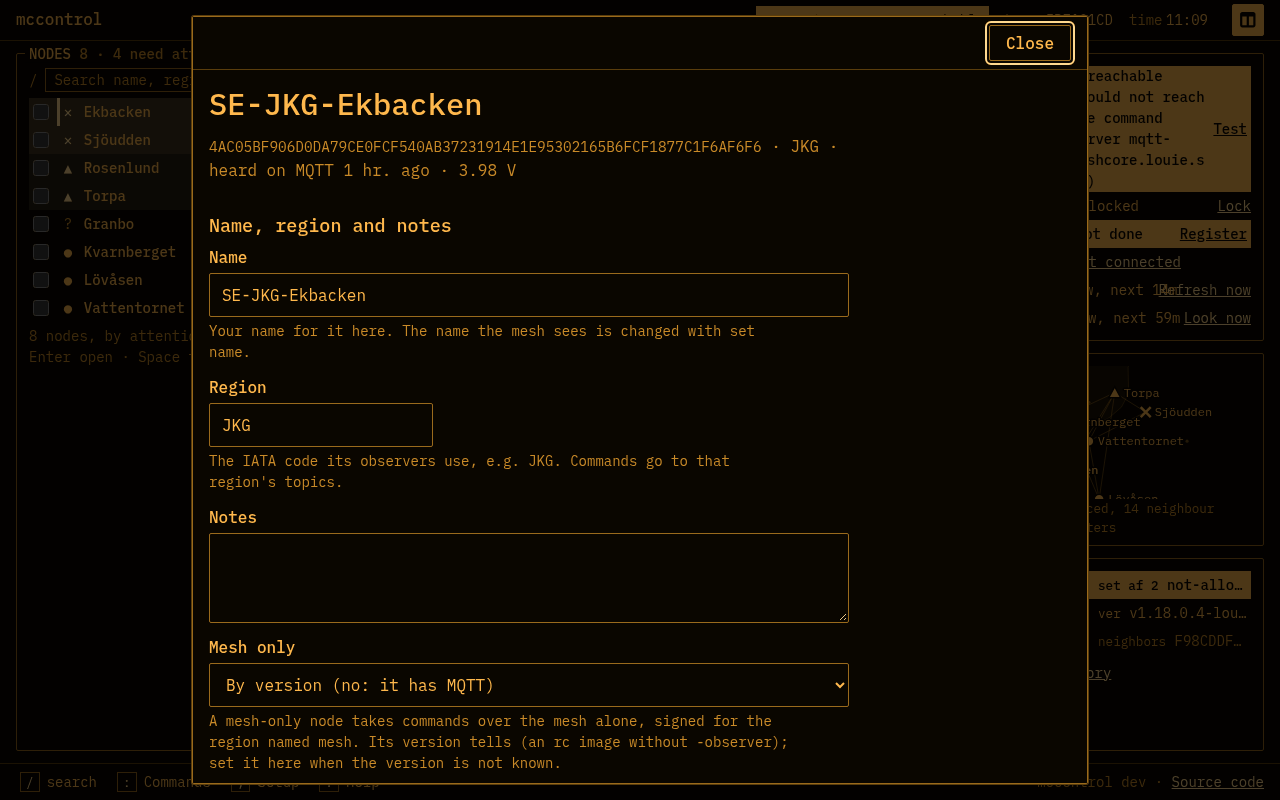
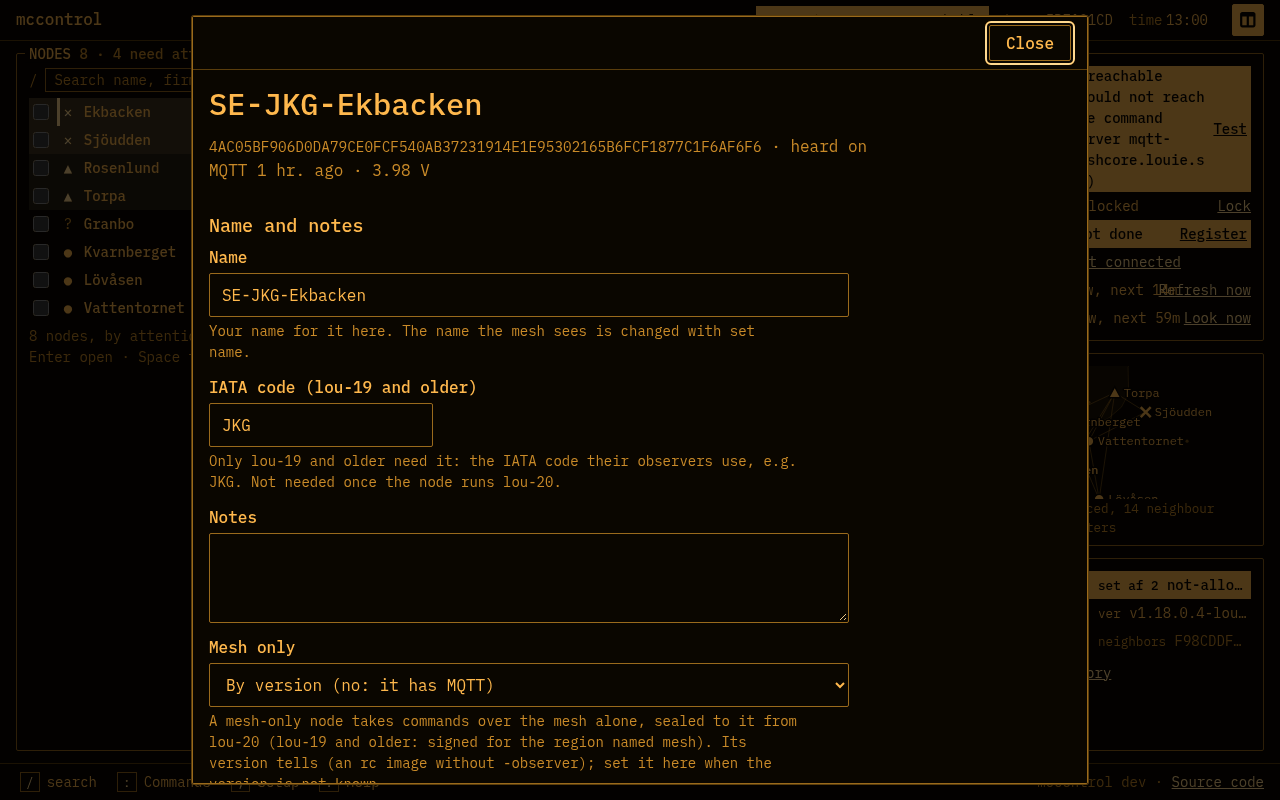
README and texts for lou-20 (IATA2-MC6, web); install as an app in Setup, Display (W-10)
README: What changed with lou-20 (per node and sealed, discovery from alive, a county is one
command per node, the sealed mesh road, the old scheme for lou-19 and older) and Install it as
an app; the area screenshot replaced by the connections tab, every screenshot remade.
Texts: the broker hint names the connections tab; the mesh-only hint says sealed from lou-20.
Setup, Display: the browser's install offer kept and raised by a button, or how to install from
the menu, with the release and commit.

diff --git a/web/ui/modals/setup.js b/web/ui/modals/setup.js
@@ -10,9 +10,28 @@ import { renderConnections, renderWarnings } from '../screens/settings.js';
 import * as groups from '../screens/groups.js';
 import * as sets from '../screens/sets.js';
 import { tabScreen } from '../screens/key-kit.js';
+import { installState, promptInstall, readVersion } from '../update.js';
+
+// Install as an app, and which release this is (W-10).
+function installBlock(t) {
+  const about = h('p', { class: 'muted' }, t('install.version', { version: '…', commit: '…' }));
+  readVersion().then((v) => { about.textContent = t('install.version', { version: v.version, commit: String(v.commit || '-').slice(0, 7) }); });
+  const out = h('p', { role: 'status' });
+  const state = installState();
+  const button = state === 'ready' ? h('button', { type: 'button', class: 'button' }, t('install.button')) : null;
+  button?.addEventListener('click', async () => {
+    button.disabled = true;
+    const outcome = await promptInstall().catch(() => 'manual');
+    out.textContent = t(`install.${outcome}`);
+  });
+  return h('section', { 'aria-labelledby': 'install-title' },
+    h('h3', { id: 'install-title' }, t('install.title')), h('p', {}, t('install.body')),
+    state === 'installed' ? h('p', {}, t('install.installed')) : button || h('p', { class: 'muted' }, t('install.manual')),
+    out, about);
+}
 
 const display = (ctx) => tabScreen('display', ctx.t('setup.tab.display'),
-  h('p', { class: 'muted' }, ctx.t('settings.displayBody')), ctx.displaySettings());
+  h('p', { class: 'muted' }, ctx.t('settings.displayBody')), ctx.displaySettings(), installBlock(ctx.t));
 
 // tab -> { label (i18n key), route, render(ctx) }, in this order. `route` is the tab's old
 // screen route: the screens build "unlock, then come back here" links from it.

diff --git a/web/ui/update.js b/web/ui/update.js
@@ -66,3 +66,30 @@ export async function startUpdates({ version, onWaiting }) {
   setInterval(() => reg.update().catch(() => {}), 6 * 60 * 60 * 1000);
   return reg;
 }
+
+// Install as an app (W-10). Chromium offers to install a page with a manifest; the offer is kept
+// here so Setup's Display tab can raise it with a button. Other browsers install from their own
+// menu (Safari: Share, then Add to Home Screen or Add to Dock), so the tab says how instead.
+let installOffer = null;
+let installed = false;
+if (typeof window !== 'undefined') {
+  window.addEventListener('beforeinstallprompt', (e) => { e.preventDefault(); installOffer = e; });
+  window.addEventListener('appinstalled', () => { installOffer = null; installed = true; });
+}
+
+// 'installed' (running as the app), 'ready' (the browser's offer is kept) or 'manual'.
+export function installState() {
+  if (installed || globalThis.matchMedia?.('(display-mode: standalone)').matches || globalThis.navigator?.standalone === true) return 'installed';
+  return installOffer ? 'ready' : 'manual';
+}
+
+// Shows the browser's install dialog; 'accepted', 'dismissed', or 'manual' when there is no offer.
+export async function promptInstall() {
+  const offer = installOffer;
+  if (!offer) return 'manual';
+  installOffer = null;   // an offer can be shown once
+  await offer.prompt();
+  const { outcome } = await offer.userChoice;
+  if (outcome === 'accepted') installed = true;
+  return outcome;
+}

diff --git a/README.md b/README.md
@@ -33,13 +33,50 @@ amber, green, dark or light. Settings switch between the two.
 | [![](docs/screenshots/retro-palette.png)](docs/screenshots/retro-palette.png) | [![](docs/screenshots/retro-companion-chooser.png)](docs/screenshots/retro-companion-chooser.png) | [![](docs/screenshots/retro-result.png)](docs/screenshots/retro-result.png) | [![](docs/screenshots/retro-node-details.png)](docs/screenshots/retro-node-details.png) | [![](docs/screenshots/standard-dark-neighbours.png)](docs/screenshots/standard-dark-neighbours.png) |
 
 Setup: [key](docs/screenshots/retro-setup-key.png) · [node](docs/screenshots/retro-setup-node.png) ·
-[area](docs/screenshots/retro-setup-area.png) · [groups](docs/screenshots/retro-setup-groups.png) ·
+[command server](docs/screenshots/retro-setup-connections.png) · [groups](docs/screenshots/retro-setup-groups.png) ·
 [sets](docs/screenshots/retro-setup-sets.png) · [warnings](docs/screenshots/retro-setup-warnings.png) ·
 [display](docs/screenshots/retro-setup-display.png). Green: [board](docs/screenshots/retro-green-1600.png),
 phone: [retro](docs/screenshots/retro-phone.png).
 
 The nodes, names and key in the pictures are invented. `node web/test/smoke/readme-shots.mjs`
 makes them again from the code as it is (headless Chrome, the smoke test's fake fleet).
+
+## What changed with lou-20
+
+From firmware lou-20 the control plane is per node and knows no region (the scheme is called
+mcc3; mccontrol-spec's wire format has the bytes):
+
+- **Per node, sealed.** A command goes to one node only, on `mcc/cmd/<KEY>` (its whole public
+  key), encrypted to that node and signed inside; the answer comes back encrypted to you on a
+  reply topic named only inside the command. The command server sees neither the command nor
+  who sent it: the page signs in with a throwaway key drawn for each session. There is no IATA,
+  no region and no broadcast topic, and every node uses the shared command server.
+- **Discovery from alive.** Each lou-20 node keeps a sealed "alive" message on the command
+  server (`mcc/alive/<KEY>`, every 15 minutes and at boot) that only its owner's key opens.
+  While the key is unlocked the page reads them all and adds the nodes that are yours, wherever
+  they are, by their whole key; a node that went offline or was rekeyed away is marked so.
+  Nothing is sent, and no area or region is chosen anywhere: Setup's area tab is gone.
+- **A county is one command per node.** "Each of your nodes in a county" sends each node that
+  names that county as its own region home (from its alive) its own sealed command, in random
+  order, 10-90 s apart (5-30 min for a restart). A command that transmits, and the mesh road,
+  go to one node only. A node's region home appears only in that node's details.
+- **The mesh road is sealed too.** Through your companion a lou-20 node gets a sealed request
+  and answers sealed to you; the companion that carries it cannot read either.
+- **The old scheme stays for lou-19 and older.** A node whose alive opened, or whose version is
+  lou-20 or later, gets mcc3; any other gets the per-node IATA scheme it has always spoken, on
+  the IATA code stored for it (the node form asks for it only on such a node). The old
+  discovery runs only in the IATA codes of your own old nodes. A lou-19 node takes `ota update`
+  over the old scheme, comes back on lou-20, and moves to mcc3 by itself at its first alive.
+  lou-21 removes the old scheme; the page drops it after that.
+
+## Install it as an app
+
+Setup, Display has **Install as an app** (Chrome, Edge; Safari and others from their own menu).
+The installed app keeps one release offline, checked file by file against that release's
+`integrity.json`, and changes to a new release only when you press "Switch now". Each release
+is also a zip on the [releases page](https://github.com/sweden-mesh/mccontrol-web/releases)
+with its `integrity.json` and SHA-256, for owners who would rather serve the files themselves
+from any static host over HTTPS.
 
 ## How the four repositories relate
 
